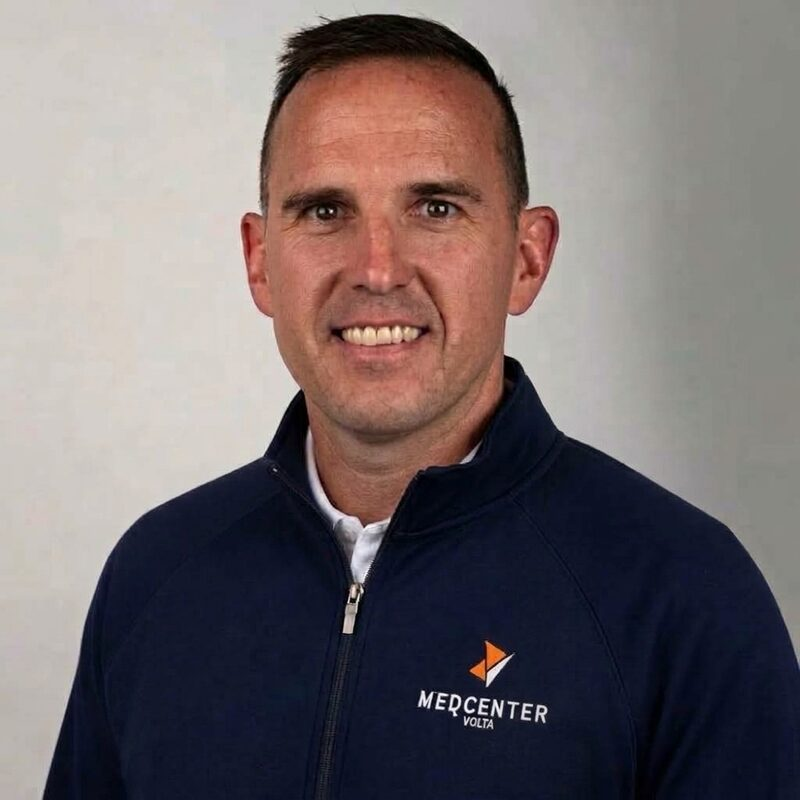
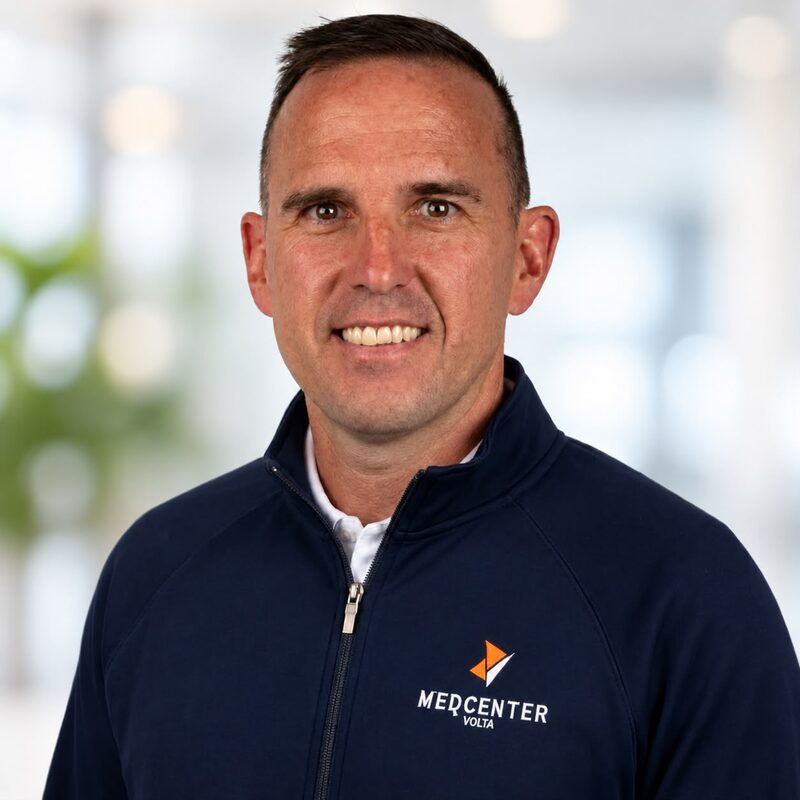
Neue Fotos von Dr. Lumpp und Dr. Osterwalder
Claude-Session: https://claude.ai/code/session_01X5VRoP68YmvtuZtS139WmW

diff --git a/team.html b/team.html
@@ -101,13 +101,13 @@
           </article>
 
           <article class="person">
-            <div class="media media-portrait"><img src="img/team-osterwalder.jpg" alt="Dr. med. Peter Osterwalder" width="800" height="800" loading="lazy"></div>
+            <div class="media media-portrait"><img src="img/team-osterwalder.jpg?v=2" alt="Dr. med. Peter Osterwalder" width="800" height="800" loading="lazy"></div>
             <h3>Dr. med. Peter Osterwalder</h3>
             <p class="role">Facharzt Innere Medizin &amp; Sportmedizin</p>
           </article>
 
           <article class="person">
-            <div class="media media-portrait"><img src="img/team-lumpp.jpg" alt="Dr. med. Tobias Lumpp" width="800" height="800" loading="lazy"></div>
+            <div class="media media-portrait"><img src="img/team-lumpp.jpg?v=2" alt="Dr. med. Tobias Lumpp" width="800" height="800" loading="lazy"></div>
             <h3>Dr. med. Tobias Lumpp</h3>
             <p class="role">Facharzt für Allgemeinmedizin</p>
             <ul>

diff --git a/index.html b/index.html
@@ -198,11 +198,11 @@
             <figcaption>Dr. med. Elif Keser</figcaption>
           </figure>
           <figure>
-            <div class="media media-portrait"><img src="img/team-osterwalder.jpg" alt="Dr. med. Peter Osterwalder" width="800" height="800" loading="lazy"></div>
+            <div class="media media-portrait"><img src="img/team-osterwalder.jpg?v=2" alt="Dr. med. Peter Osterwalder" width="800" height="800" loading="lazy"></div>
             <figcaption>Dr. med. Peter Osterwalder</figcaption>
           </figure>
           <figure>
-            <div class="media media-portrait"><img src="img/team-lumpp.jpg" alt="Dr. med. Tobias Lumpp" width="800" height="800" loading="lazy"></div>
+            <div class="media media-portrait"><img src="img/team-lumpp.jpg?v=2" alt="Dr. med. Tobias Lumpp" width="800" height="800" loading="lazy"></div>
             <figcaption>Dr. med. Tobias Lumpp</figcaption>
           </figure>
           <figure>
